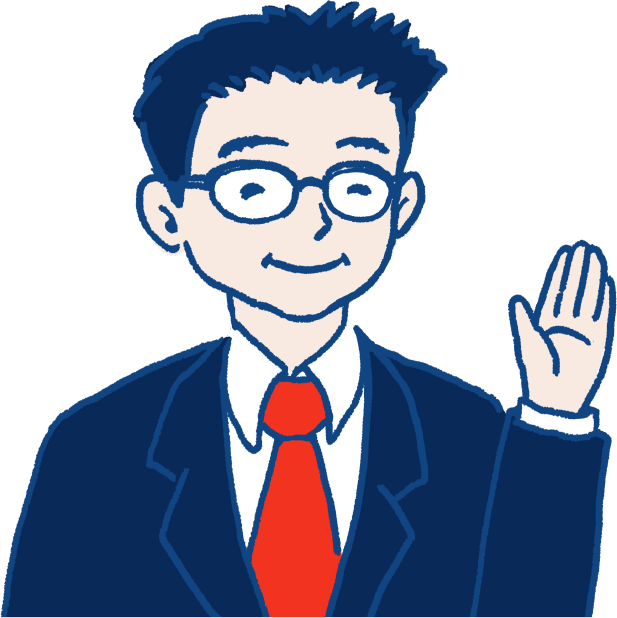
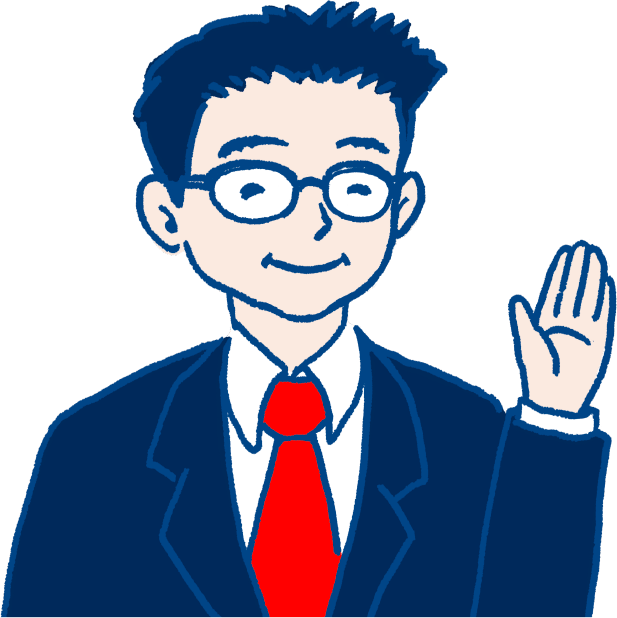
image optimization

Changed region(s): [[0.4003, 0.6149, 0.5543, 1.0]]

diff --git a/mission.html b/mission.html
@@ -78,7 +78,7 @@
             </div>
             <div class="content-area">
                 <div class="img-area text-center">
-                    <img src="img/illust_02.jpg" />
+                    <img src="img/illust_02.png" />
                 </div>
                 <div class="container text-area">
                     <p>

diff --git a/css/freelancer.css b/css/freelancer.css
@@ -11361,7 +11361,7 @@ form .row:first-child .floating-label-form-group {
 
 .top-page .strength-section .img-area {
   min-height: 20vw;
-  background-image: url("../img/illust_02.jpg");
+  background-image: url("../img/illust_02.png");
   background-repeat: no-repeat;
   background-position: center;
   background-size: contain;
